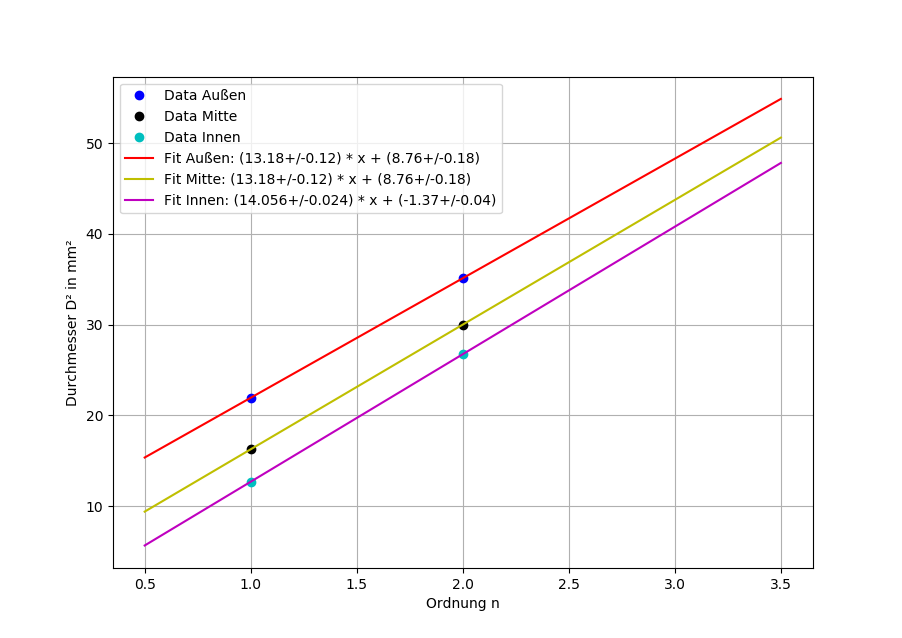
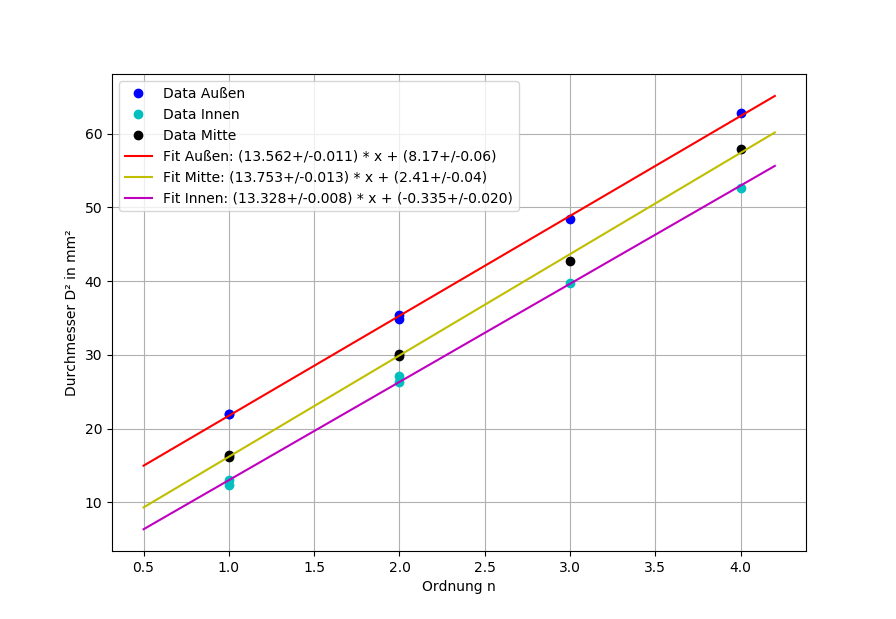
Hyperfeinstruktur uv mehr data

diff --git a/hyperfeinstruktur/hyperfein.py b/hyperfeinstruktur/hyperfein.py
@@ -45,6 +45,7 @@ def uc_lin_reg(x,xerr,y,yerr):
     b = ym - m*xm
     return m,b;
 
+
 def laser():
     data1 = np.loadtxt("115/laser_green1.txt",unpack=True)
     data2 = np.loadtxt("115/laser_green2.txt",unpack=True)
@@ -83,6 +84,7 @@ def laser():
     #plt.show()
     plt.clf()
     return d;
+
 
 def green(d):
     data1 = np.loadtxt("115/data_green1.txt",unpack=True)
@@ -143,8 +145,7 @@ def green(d):
     return;
 
 
-
-def uv(d):
+def uv_old(d):
     data0 = np.loadtxt("115/date_uv0.txt",unpack=True)
     data1 = np.loadtxt("115/date_uv1.txt",unpack=True)
     data2 = np.loadtxt("115/date_uv2.txt",unpack=True)
@@ -220,10 +221,83 @@ def uv(d):
     plt.clf()
     return;
 
+def uv(d):
+    data0 = np.loadtxt("115/date_uv0.txt",unpack=True)
+    data1 = np.loadtxt("115/date_uv1.txt",unpack=True)
+    data2 = np.loadtxt("115/date_uv2.txt",unpack=True)
+    data3 = np.loadtxt("115/date_uv3.txt",unpack=True)
+    data4 = np.loadtxt("115/date_uv4.txt",unpack=True)
+    data5 = np.loadtxt("115/date_uv5.txt",unpack=True)
+
+    f   = uc.ufloat(150,1)*1e-3
+
+    d1a = 2*( np.array([93,161,244,342,1048,1110])-695    ) /155
+    d1c = 2*( np.array([120,196,281,400,1000,1091])-695    ) /155
+    d1i = 2*( np.array([139,214,308,432,967,1087] )-695    ) /155
+
+    d5a = 2*(np.array([95,178,251,349,1095,1222])-722) /155
+    d5c = 2*(np.array([117,207,289,394,1044,1177])-722) /155
+    d5i = 2*(np.array([154,225,314,426,995,1138])-722)  /155
+
+    dma = np.mean([d1a,d5a],axis = 0) **2
+    dmc = np.mean([d1c,d5c],axis = 0) **2
+    dmi = np.mean([d1i,d5i],axis = 0) **2
+    derra = np.std([d1a,d5a],axis = 0) **2
+    derrc = np.std([d1c,d5c],axis = 0) **2
+    derri = np.std([d1i,d5i],axis = 0) **2
+
+    ma,ba = uc_lin_reg([4,3,2,1,1,2],0,dma,derra)
+    mc,bc = uc_lin_reg([4,3,2,1,1,2],0,dmc,derrc)
+    mi,bi = uc_lin_reg([4,3,2,1,1,2],0,dmi,derri)
+
+    lama = (1e-6*ma*d)/(4*f**2)
+    lamc = (1e-6*mc*d)/(4*f**2)
+    lami = (1e-6*mi*d)/(4*f**2)
+
+    lamq = (lama+ lamc+ lami)/3
+
+    Dlamac = np.mean(lamq/(8*f**2) * ((dma-dmc)*1e-6))
+    Dlamai = np.mean(lamq/(8*f**2) * ((dma-dmi)*1e-6))
+    Dlamci = np.mean(lamq/(8*f**2) * ((dmc-dmi)*1e-6))
+
+
+    #Data Print ---------------------------
+    print("Außen in mm²: m = ", ma , "b = ", ba)
+    print("mitte in mm²: m = ", mc , "b = ", bc)
+    print("Innen in mm²: m = ", mi , "b = ", bi)
+    print("lambda außen = ", lama*1e9, "nm")
+    print("lambda mitte = ", lamc*1e9, "nm")
+    print("lambda innen = ", lami*1e9, "nm")
+    print(Dlamac/lamq, Dlamai/lamq, Dlamci/lamq)
+
+    #plt.plot(data0[0], data0[1], "m.-",label="Data0")   #nope
+    #plt.plot(data1[0], data1[1], "b.-",label="Data1")   #good
+    #plt.plot(data2[0], data2[1], "r.-",label="Data2")   #maybe (nope)
+    #plt.plot(data3[0], data3[1], "g.-",label="Data3")   #nope
+    #plt.plot(data4[0], data4[1], "y.-",label="Data4")   #good
+    #plt.plot(data5[0], data5[1], "k.-",label="Data5")   #good
+
+    xw = np.linspace(0.5,4.2,1000)
+    plt.plot([4,3,2,1,1,2],dma,"bo", label = "Data Außen")
+    plt.plot([4,3,2,1,1,2],dmi,"co", label = "Data Innen")
+    plt.plot([4,3,2,1,1,2],dmc,"ko", label = "Data Mitte")
+    plt.plot(xw,ma.n*xw+ba.n,"r-", label = ("Fit Außen: ("+ str(ma) + ") * x + (" + str(ba) + ")") )
+    plt.plot(xw,mc.n*xw+bc.n,"y-", label = ("Fit Mitte: ("+ str(mc) + ") * x + (" + str(bc) + ")") )
+    plt.plot(xw,mi.n*xw+bi.n,"m-", label = ("Fit Innen: ("+ str(mi) + ") * x + (" + str(bi) + ")") )
+
+    plt.xlabel("Ordnung n")
+    plt.ylabel("Durchmesser D² in mm²")
+    plt.legend()
+    plt.grid(True)
+    plt.show()
+    plt.clf()
+    return;
+
 
 def main():
     d = laser()
     #green(d)
+    uv_old(d)
     uv(d)
     return;
 
